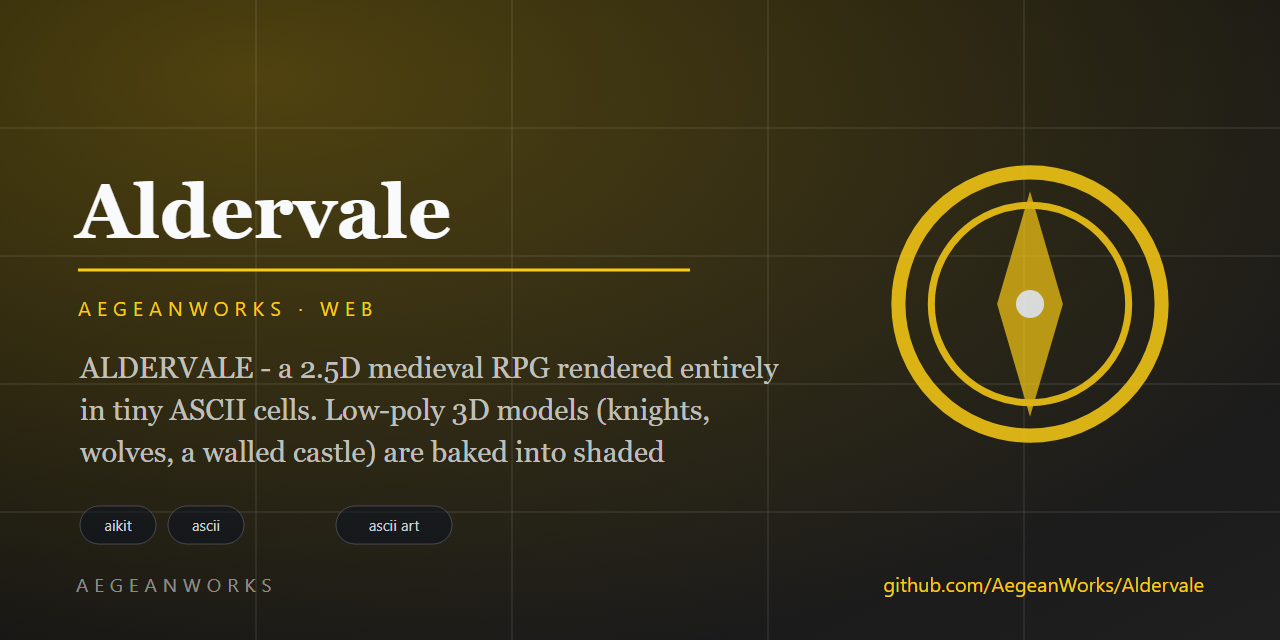
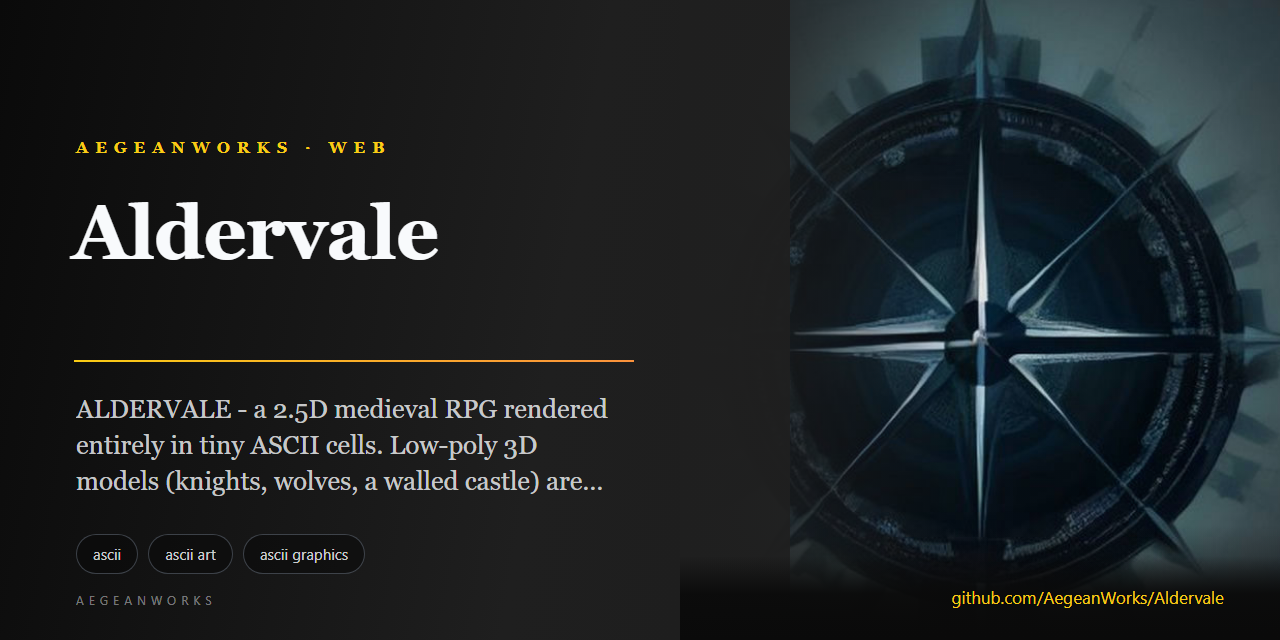
feat(brand): replace procedural marks with reviewed AI-art identities

diff --git a/README.md b/README.md
@@ -1,8 +1,8 @@
 # aldervale
 
 <!-- aegean:media:start -->
-<p align="center"><img src="assets/logo.svg" alt="Aldervale logo" width="96" height="96"></p>
-<p align="center"><img src="assets/social-preview.svg" alt="Aldervale social preview" width="100%"></p>
+<p align="center"><img src="assets/logo.png" alt="Aldervale logo" width="96" height="96"></p>
+<p align="center"><img src="assets/social-preview.png" alt="Aldervale social preview" width="100%"></p>
 <!-- aegean:media:end -->
 
 [![Built with AIKit](https://img.shields.io/badge/built%20with-AIKit-6f42c1)](https://github.com/AegeanWorks/AIKit)
